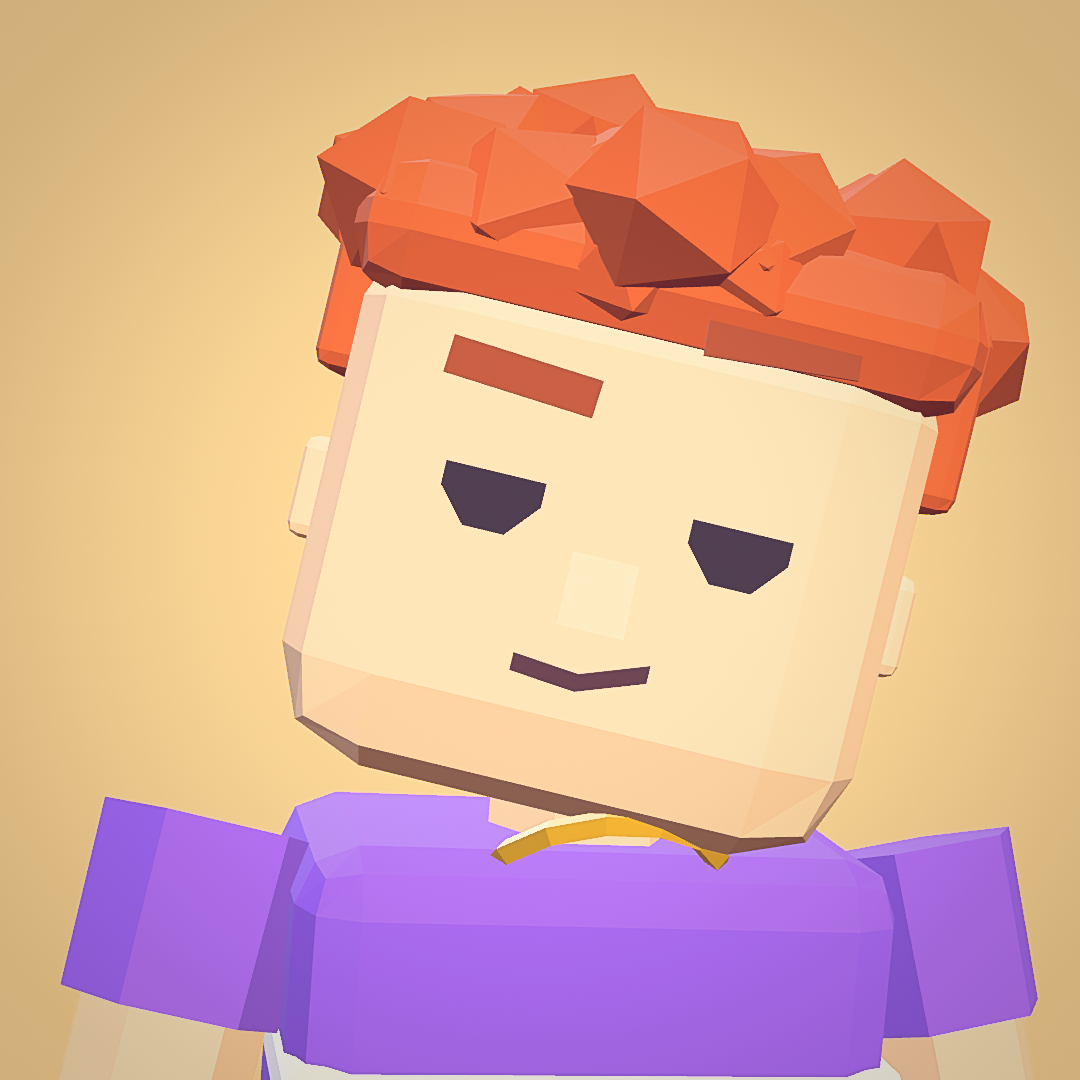
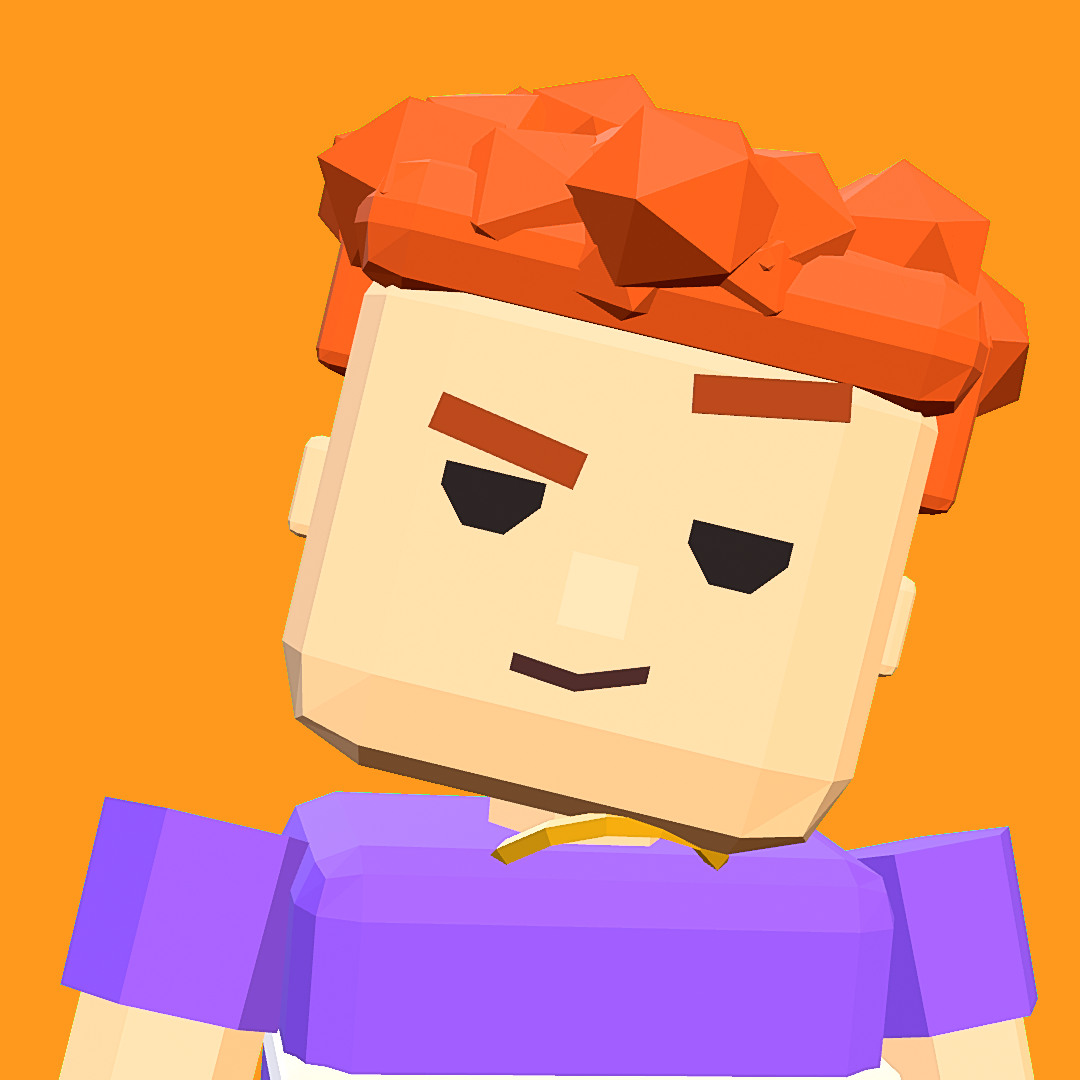
storytime branding: pfp smug one-brow-up homie on a solid bright orange (rendered on a green key backdrop, keyed onto #FF9A1F: the post chain washed out warm backdrops); vignette off for branding

diff --git a/finance/render-pc/src/storytime/branding.tsx b/finance/render-pc/src/storytime/branding.tsx
@@ -22,8 +22,8 @@ export const BRAND_CAST: Record<"me" | "homie", CastSpec> = {
 const mood = (() => {
   const flat = (c: string) => ({ top: c, mid: c, bottom: c, cloudColor: c, cloudLit: "#ffffff", clouds: 0, stars: 0, rays: 0, horizon: 0.16, brush: 0, sun: { dir: [-0.6, 0.12, -1] as V3, color: "#ffffff", size: 6 }, sunOn: 0, moon: { dir: [-0.4, 0.45, -1] as V3, color: "#ffffff", size: 4 }, moonOn: 0 });
   const m = mk({ note: "brand", hemi: ["#f0f4ff", "#a08060", 0.75], key: ["#fff1d8", 2.5, [0.6, 0.8, 0.7]], rim: ["#ffffff", 1.6, [-0.6, 0.5, -0.8]], fill: ["#d8e4ff", 0.6, [-0.7, 0.3, 0.6]], prac: ["#fff", 0, "#fff"], fog: ["#ffffff", 0.0001], sky: flat("#ffffff"),
-    toon: { shadowTint: [0.92, 0.9, 1.1], hiTint: [1.04, 1.02, 0.96], rimColor: "#ffffff" }, grade: { exposure: 0.9, contrast: 1.12, saturation: 1.3, shadowTint: "#5a5ab0", highlightTint: "#fff6e0", gain: "#ffffff" }, bloomTint: "#fff4dc", ink: "#1d1630", camFill: ["#ffffff", 0.35], cast: { rim: ["#fff6e0", 1.2], fill: ["#ffe8d0", 0.5] } });
-  return { ...m, post: { ...m.post, outline: { ...m.post.outline, enabled: false, strength: 0 }, bloom: { ...m.post.bloom, threshold: 1.6, strength: 0.1 }, vignette: { amount: 0.22, softness: 0.75, color: "#2a1a14" } } };
+    toon: { shadowTint: [0.92, 0.9, 1.1], hiTint: [1.04, 1.02, 0.96], rimColor: "#ffffff" }, grade: { exposure: 0.95, contrast: 1.1, saturation: 1.25, shadowTint: "#6a4a30", highlightTint: "#fff6e0", gain: "#ffffff" }, bloomTint: "#fff4dc", ink: "#1d1630", camFill: ["#ffffff", 0.35], cast: { rim: ["#fff6e0", 1.2], fill: ["#ffe8d0", 0.5] } });
+  return { ...m, post: { ...m.post, outline: { ...m.post.outline, enabled: false, strength: 0 }, bloom: { ...m.post.bloom, threshold: 1.6, strength: 0.1 }, vignette: { amount: 0, softness: 0.75, color: "#2a1a14" }, grade: { ...m.post.grade, lift: "#000000" } } };
 })();
 
 const kid = (id: "me" | "homie", o: Partial<FigState> & { face: FaceP }): FigState => ({
@@ -31,7 +31,7 @@ const kid = (id: "me" | "homie", o: Partial<FigState> & { face: FaceP }): FigSta
   armL: [0.1, 0.12], armR: [0.1, 0.12], pose: "idle", expr: "smug", mouth: 0, talking: false, seed: 1, ...o,
 });
 /** wild + smug: one brow way up, a big toothy grin, eyes on the lens */
-const WILD: FaceP = { ...FACES.smug, browAsym: 1, browY: 0.1, lid: 0.5, curve: 0.3, smirk: 0.8, px: 0 }; // smug half-lid, one brow way up (low-poly: static bar mouth)
+const WILD: FaceP = { ...FACES.smug, browAsym: 1.4, browY: -0.55, browA: 0.5, lid: 0.5, curve: 0.3, smirk: 0.8, px: 0 }; // the low brow sits down, the other shoots up // smug half-lid, one brow way up (low-poly: static bar mouth)
 const YELL: FaceP = { ...FACES.yell, open: 0.95, px: 0 };
 const FACEPALM: FaceP = { ...FACES.deadpan, lid: 0.72, browA: -0.25, browY: 0.1, curve: -0.35, px: -0.4, py: -0.3 };
 
@@ -62,7 +62,7 @@ export const BrandPfp: React.FC<{ text?: boolean }> = ({ text }) => {
   return (
     <AbsoluteFill style={{ background: "#FFB020" }}>
       <View mood={mood} cam={cam} t={0} blur={0} sky={false} width={1080} height={1080}>
-        <Backdrop c={[-dir[0] * 1.6, 1.15, -dir[2] * 1.6]} yaw={dy} size={6} base="#FFB020" glow="#FFB020" />
+        <Backdrop c={[-dir[0] * 1.6, 1.15, -dir[2] * 1.6]} yaw={dy} size={6} base="#00C000" glow="#00C000" />
         <Kid st={st} t={0} />
       </View>
       {text ? <div style={{ position: "absolute", left: 0, right: 0, top: 900, display: "flex", justifyContent: "center" }}><Title fs={84} /></div> : null}
